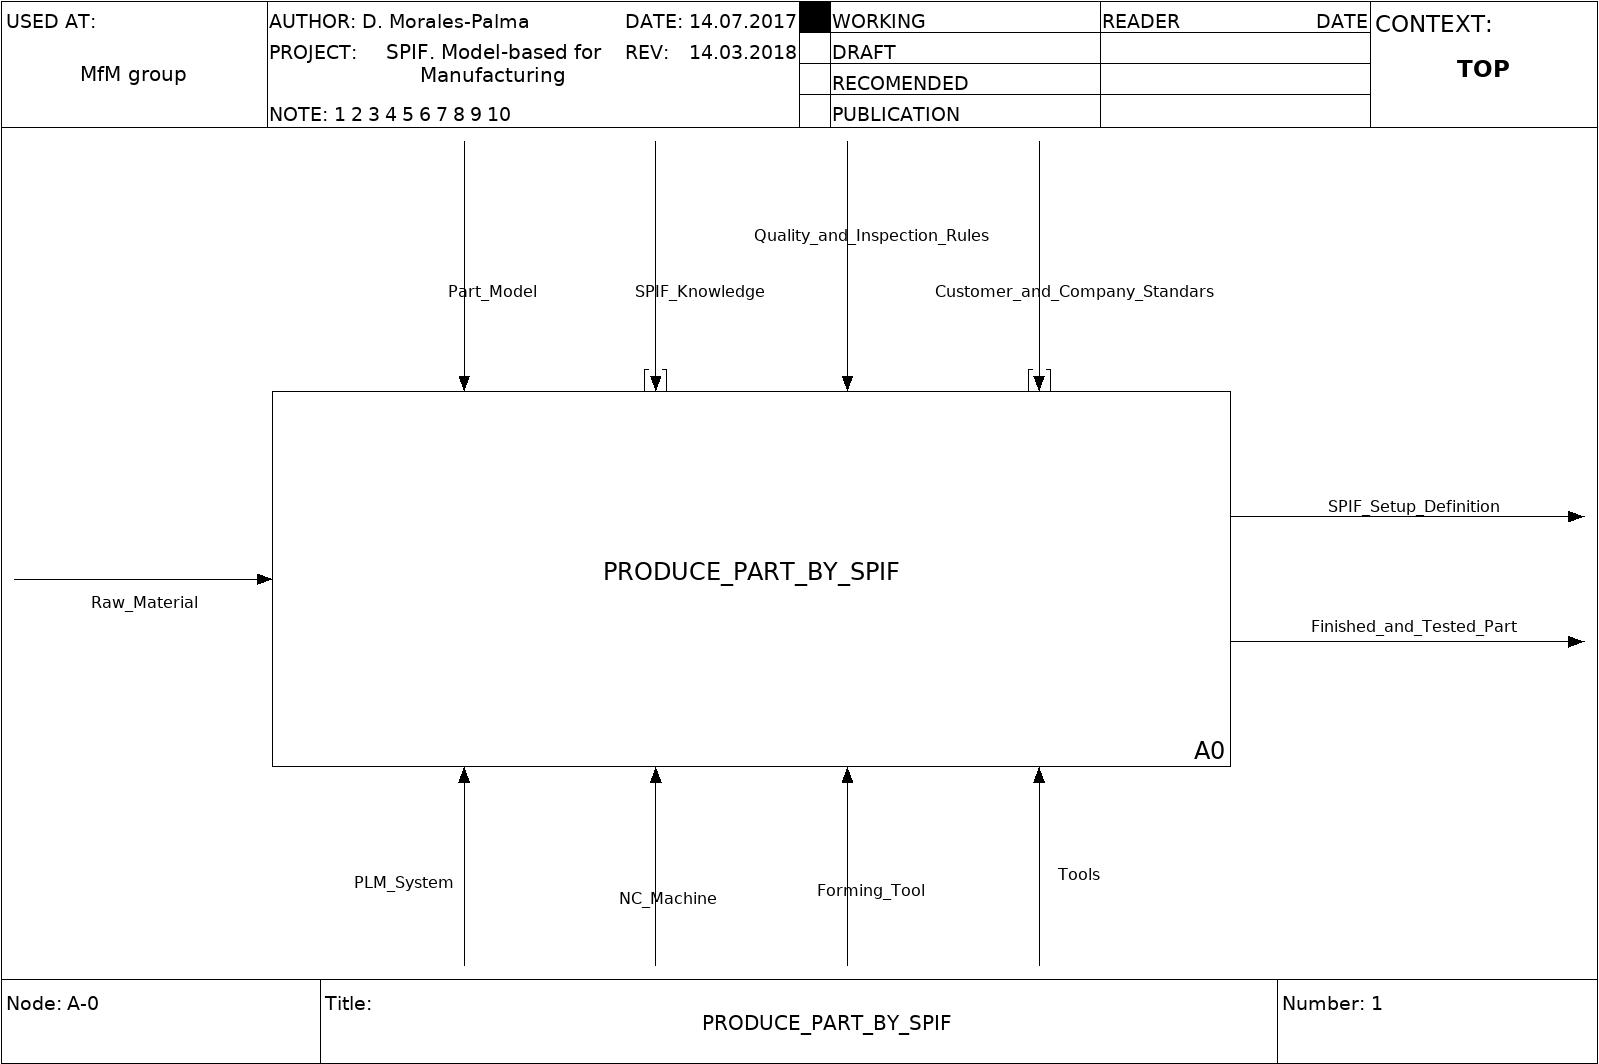
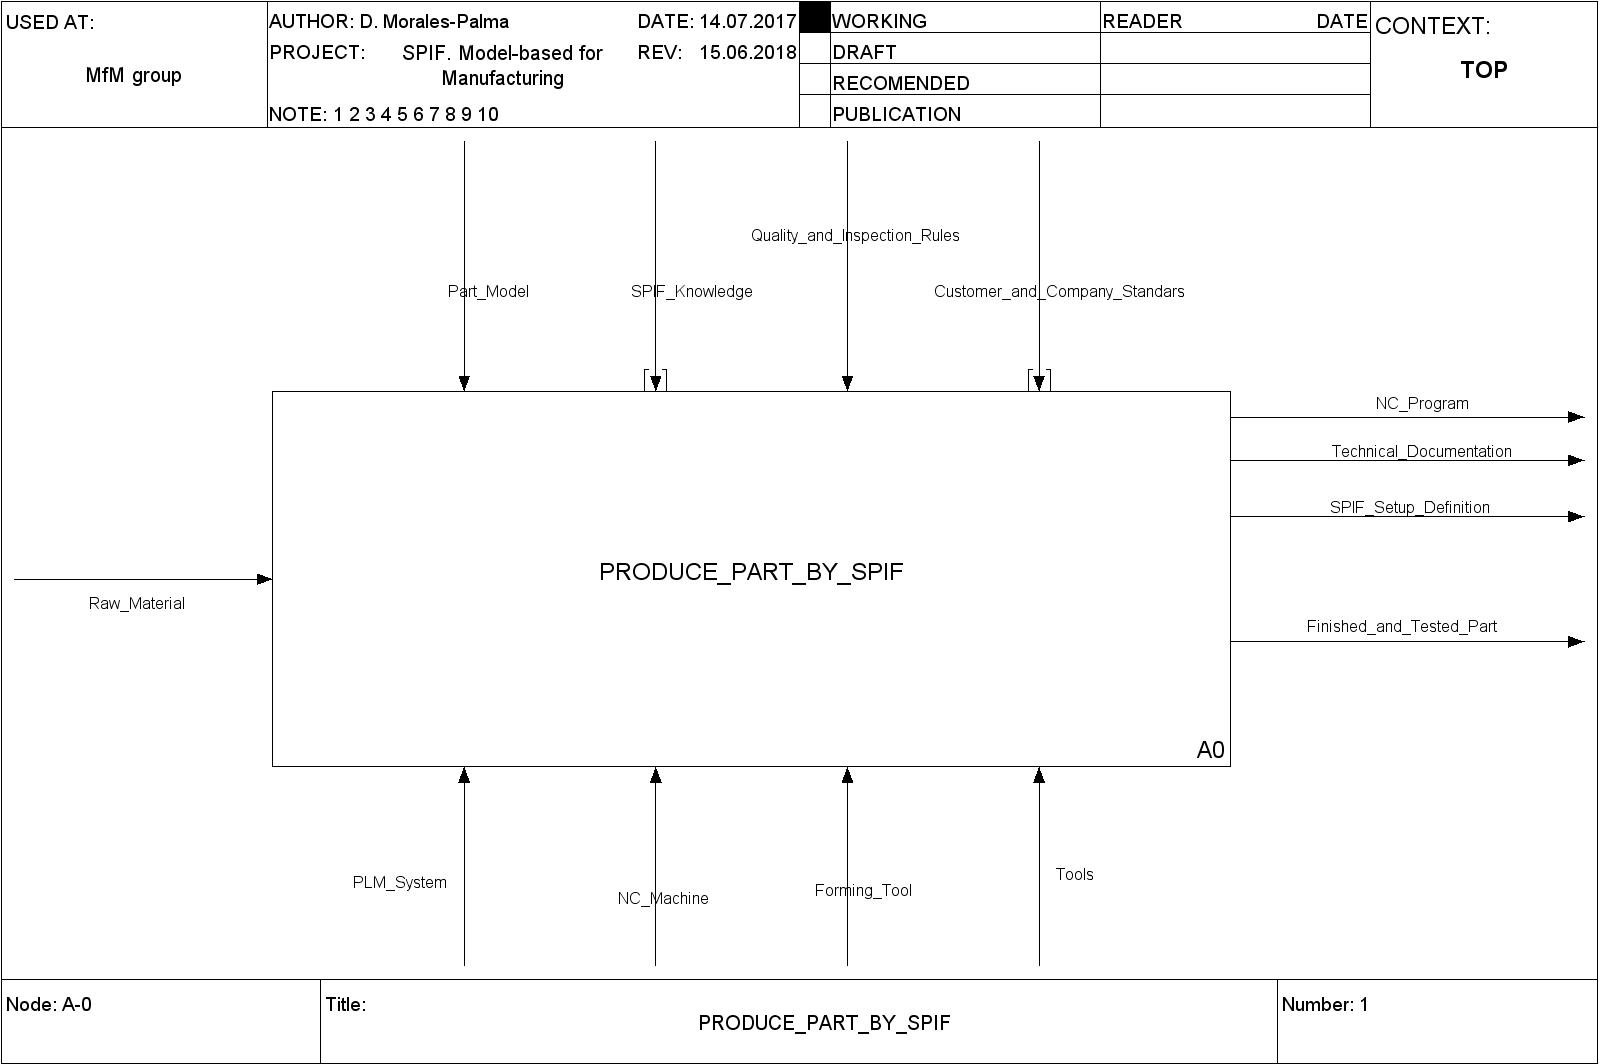
Scope Model: redesign A0, A2 and new A3 diagram
Context: TOP
- New 'A0:output' NC_Program: used to (both virtual and) REAL manufacturing
- New 'A0:output' Technical_Documentation: same idea

Context: A0
- 2 new 'A1:output' to TOP
- New 'A1:input' Raw_Material to A2: material and thickness used to define FEM and analyse results
- Change 'A1:control-input' NC_Program to A2: used to extract tool path for FEM
- Change 'A1:control-input' SPIF_Setup_Definition to A2: used to define FEM

Context: A2
- Change 'A21:control-input' NC_Program: used to extract tool path but not transitional (rapid) movements and CNC auxiliary operations
- New tunneled 'A21:mechanism' Code_Processor: subroutine (eg. Python) to convert CNC code to Abaqus input files
- Change 'A22:control-input' Tool_Trajectory from A21: used to define FEM
- Change 'A22:control-input' SPIF_Setup_Definition to A22: used to define FEM
- New 'A22:input' Raw_Material: material and thickness used to define FEM
- Change 'A23:control-input' SPIF_Numerical_Model: used to compute results (it includes data from Raw_Material: material and thickness used to analyse results by comparing undeformed and deformed parts)

New Context: A3
- New 'A31:function' Manufacturing: represents the SPIF operation in the CNC machining center
- New 'A31:output' Finished_Part: represents the manufactured part before manual inspection or a scanned model of the REAL part for DIC inspection
[…]

diff --git a/README.md b/README.md
@@ -14,6 +14,7 @@ Design and extension model for Single Point Incremental Forming - SPIF
 
 ![SPIF_Scope_Model_05_A2](SPIF_Scope_Model_05_A2.jpg)
 
+![SPIF_Scope_Model_06_A3](SPIF_Scope_Model_06_A3.jpg)
 
 ## Data Model
 
